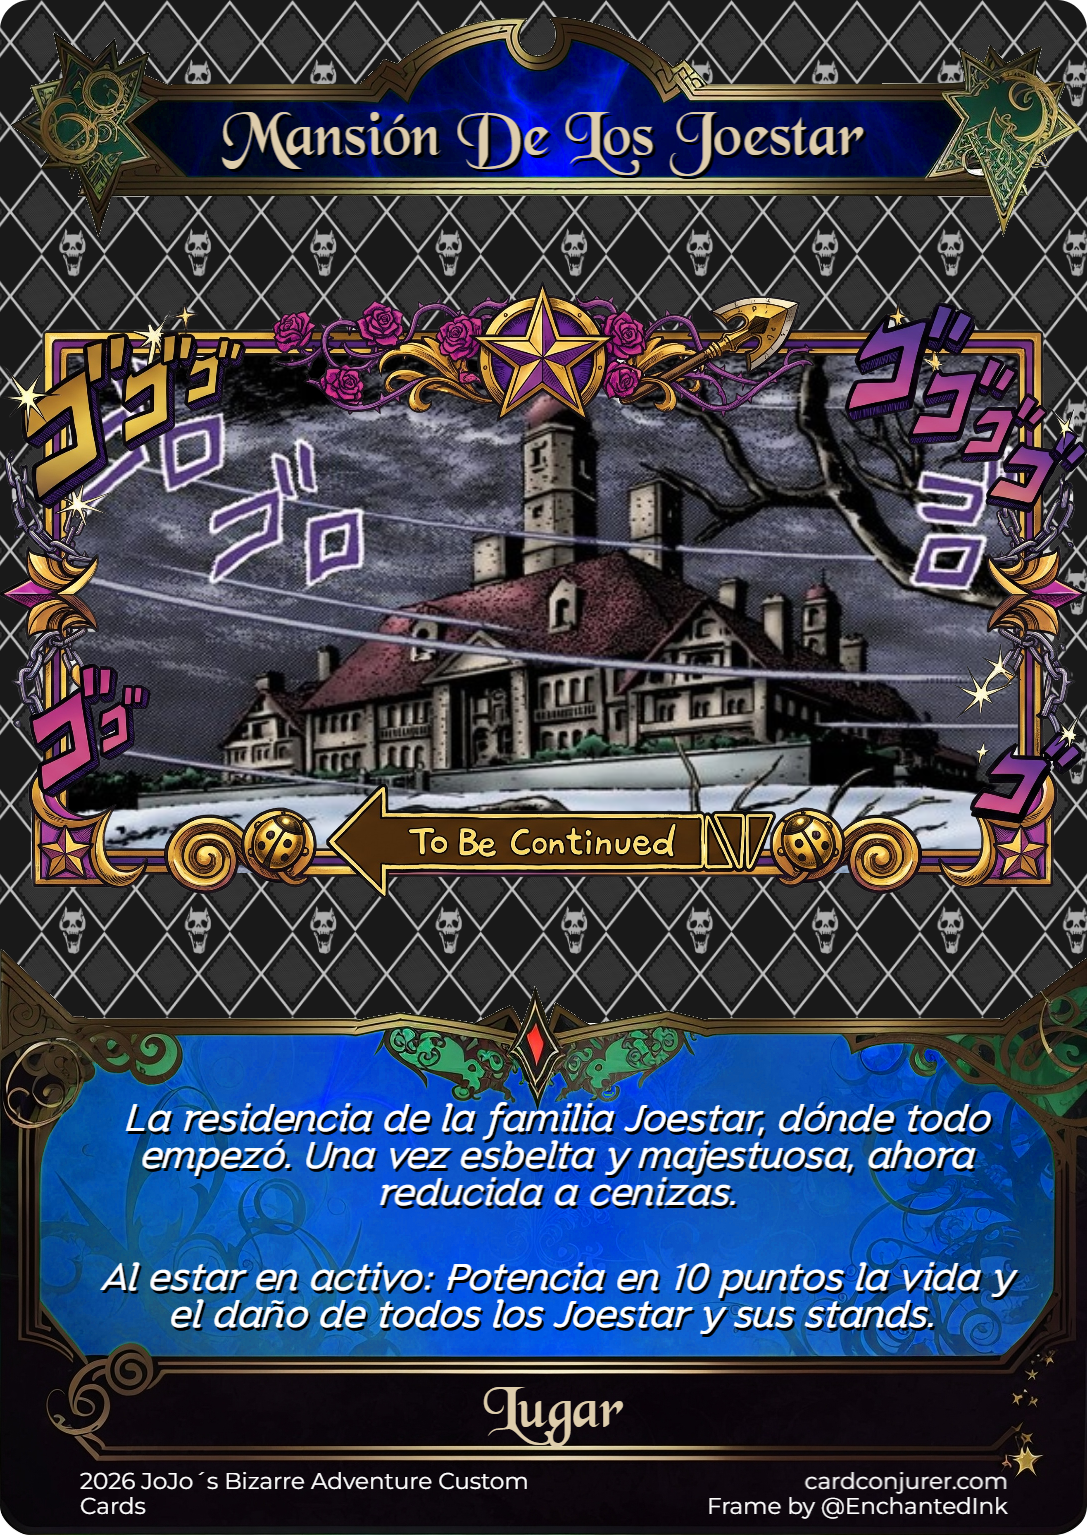
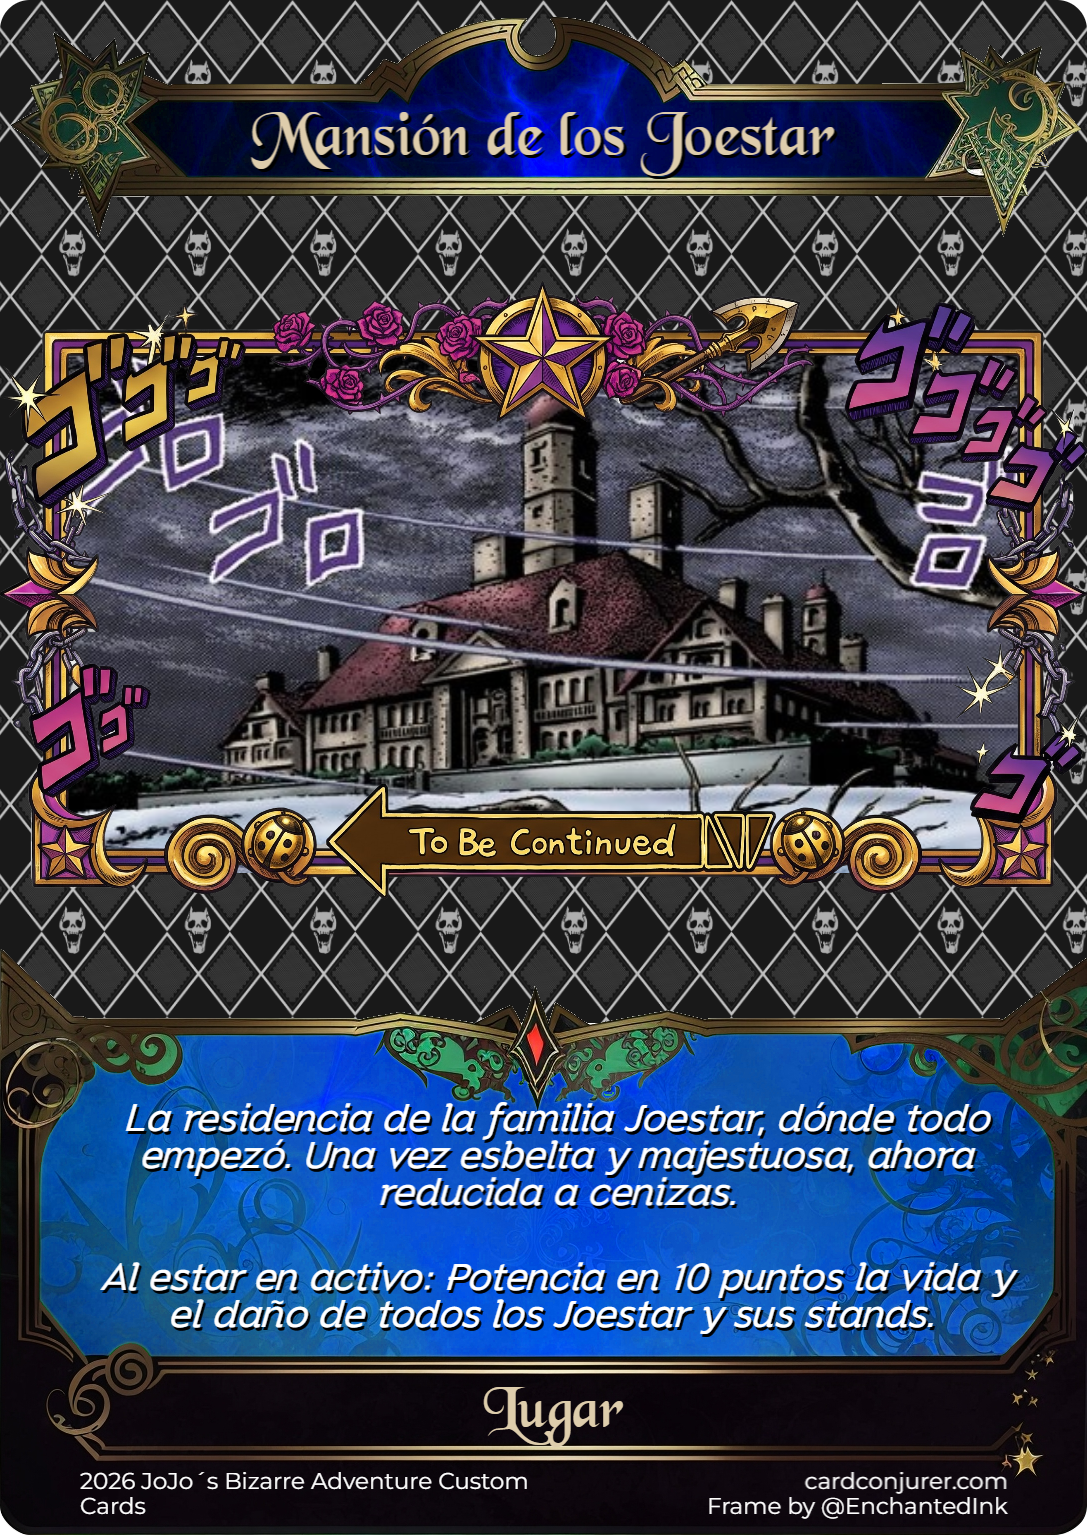
assets(cards): update Mansión de los Joestar PNG and title casing

Changed region(s): [[0.2125, 0.0612, 0.7893, 0.1225]]

diff --git a/src/data/cards/locations.ts b/src/data/cards/locations.ts
@@ -9,7 +9,7 @@ import type { LocationCard } from '../schemas/cardTypes';
 export const LOCATION_CARDS: LocationCard[] = [
   {
     id: 'loc-mansion-de-los-joestar',
-    name: 'Mansión De Los Joestar',
+    name: 'Mansión de los Joestar',
     type: 'LOCATION',
     part: 1,
     imageId: 'mansion-de-los-joestar',
